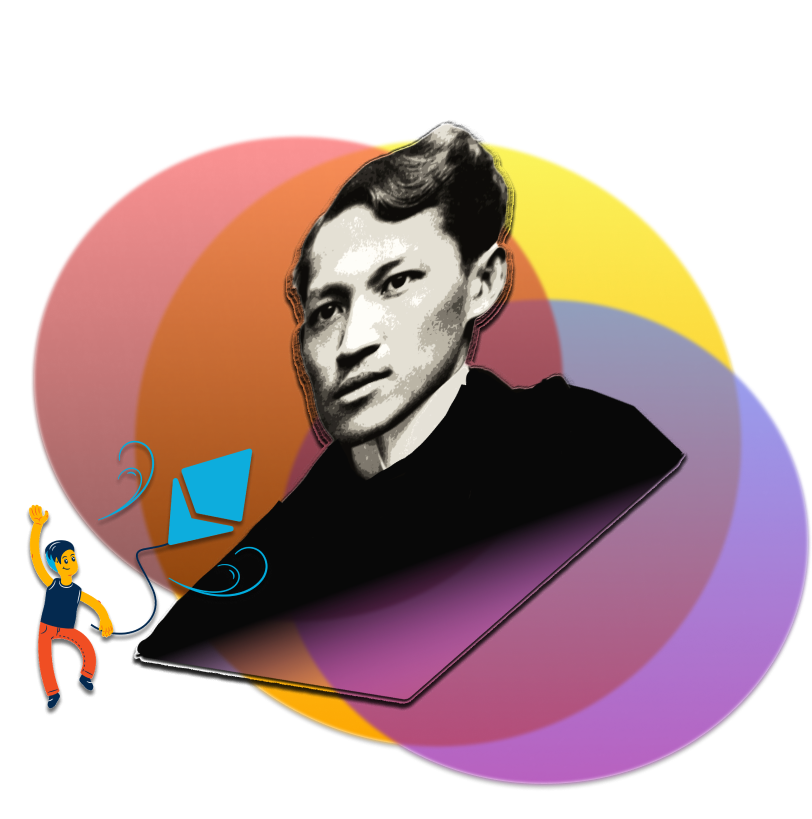
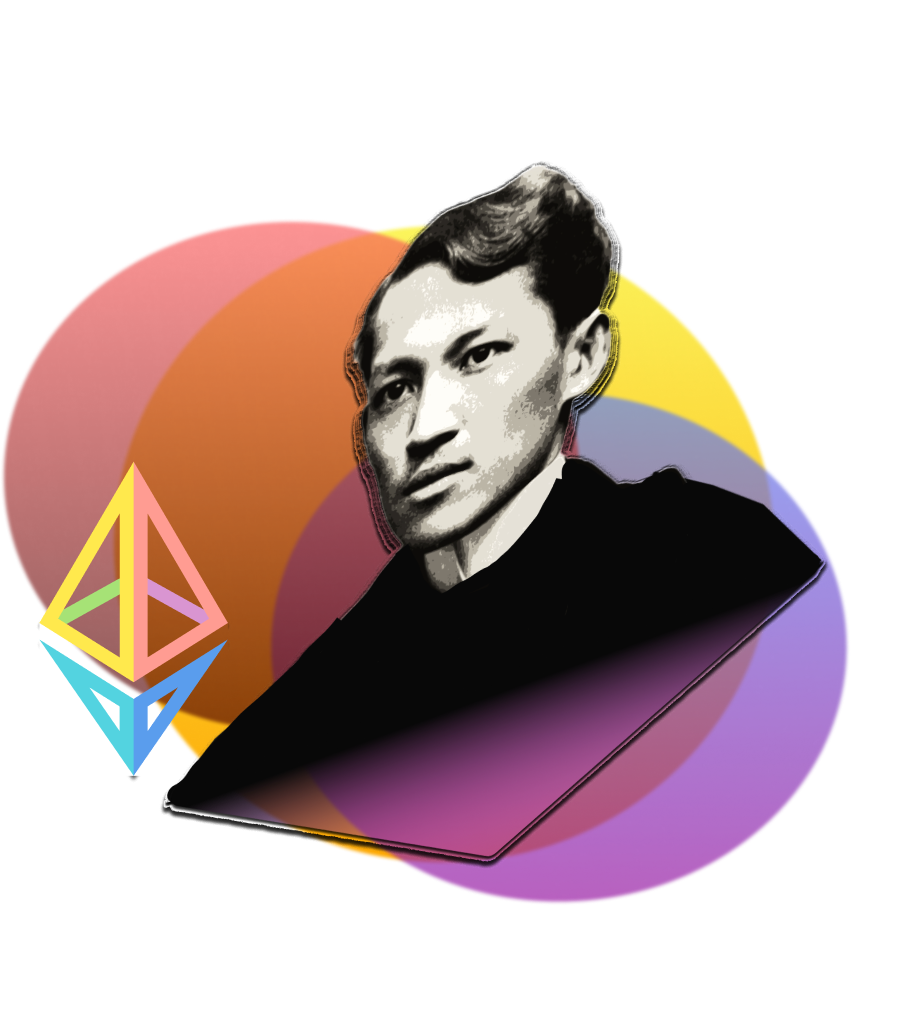
build landing done

diff --git a/rizal/pages/index.js b/rizal/pages/index.js
@@ -1,9 +1,25 @@
 import Head from 'next/head'
-import Nav from '../components/Nav'
-import { Flex, Button, Box, Text, Image, Heading} from '@chakra-ui/react'
+import Card from '../components/Card'
+import { Flex, Button, Box, Text, Divider, Input,Image, Heading, Accordion,
+  AccordionItem,
+  AccordionButton,
+  AccordionPanel,
+  AccordionIcon} from '@chakra-ui/react'
+import Footer from '../components/Footer'
 export default function Home() {
+
+
+  const imageURL=["/","/images","/images/","/images/","/images/","/images"]
+
+
+
+
+
+
+
+
   return (
-    <Flex d="flex"  justify="space-around" align="center" direction="column" w={'full'} h='100vh'> 
+    <Flex d="flex"  justify="space-around" align="center" direction="column" w={'full'} h={'full'} bgGradient='linear(to-b, #000000, #9F3AC3)'> 
         <Head>
           <title>Welcome to NFT Rizal</title>
           <meta name="description" content="Next Generation NFT Collection " />
@@ -11,17 +27,162 @@ export default function Home() {
   
         
         </Head> 
-        <Flex d="flex"  justify="space-around" align="center" direction="row" w={'full'} h='100vh' bgGradient='linear(to-b, #000000, #9F3AC3)'>     
+        <Flex d="flex"  justify="space-around" align="center" direction="row" w={'full'} h="35vh">     
                 <Box mt={-20} justify="center">
-                          <Heading fontSize="6xl" mb={2} bgClip='text'  bgGradient= 'linear(to-r, yellow.900, purple.300)' >NFT Rizal</Heading>
+                          <Heading fontSize="6xl" mb={2} bgClip='text'  bgGradient= 'linear(to-l, yellow.900, purple.300)' >NFT Rizal</Heading>
                           <Text mb={2} w="400px"color="white">Lorem ipsum dolor sit amet, consectetur adipiscing elit. Ultrices velit nisi morbi facilisi duis varius.</Text>
                           <Button colorScheme="purple">Collect Now</Button>
                 </Box>
                 <Box mt={-20} justify="center">
                         <Image src="/images/hero.png" alt="hero-image" boxSize="450px" />
+                        <Box border="2px"  h="100px" w="500px" borderRadius="20px "color="white" align="center" mt={-20} pos="absolute">
+                             <Text fontWeight="bold" color="white">Launch Giveaways!</Text>
+                        </Box>
                 </Box>       
+               
         </Flex>
         
+        <Heading mt={10} color="white">Featured Art Collections</Heading>
+        <Flex d="flex" m={4} justify="space-around" align="center" direction="row">
+          
+          <Card title="NFT Rizal #001" description="Akatsuki" imageUrl="/images/Akatsuki Rizal.png"/>
+          <Card title="NFT Rizal #002" description="LA Rams 22 Champion" imageUrl="/images/LA RAMS RIZAL.png"/>
+          <Card title="NFT Rizal #003" description="New Normal" imageUrl="/images/mask purple.png"/>
+        </Flex>
+
+        <Flex d="flex" maxW="4xl" m={4}  justify="space-between"  direction="row">
+          <Box d="flex" justify="flex-start" mr={20}>
+            <Image src="/images/whyrizal.png" alt="thug rizal"/>
+          </Box>
+          <Flex d="flex" m={4} justify="space-around" align="center" direction="column">
+            <Heading color="white"> Why NFT Rizal?</Heading>
+                <Flex d="flex" direction="row" justify="space-evenly" >
+                  <Box  m={2} border='2px' borderColor='white' boxSize="100px">
+                    <Text fontSize="xl" align="center" justify="center" color="white">500 Unique Art</Text>
+                  </Box >
+                  <Box m={2}border='1px' borderColor='white' boxSize="100px">
+                    <Text  fontSize="xl" align="center" justify="center"color="white">100 Rare</Text>
+                  </Box>
+                  <Box m={2}border='1px' borderColor='white' boxSize="100px">
+                    <Text  fontSize="xl" align="center" justify="center" color="white">100% History</Text>
+                  </Box>
+                  
+               </Flex>
+               <Button>Learn more about Rizal </Button>
+          </Flex>
+        </Flex>
+        
+        <Flex d="flex" maxW="4xl" m={4} p={5} borderRadius="20px" justify="space-between"   
+          bgImage="url('/images/roadmapbg.png')"
+          bgPosition="center"
+           bgRepeat="no-repeat"direction="column">
+            
+            <Heading align="center" justify="center" color="white">NFT Rizal Roadmap</Heading>
+
+            <Box mt={2} d="flex" direction="row" alignItems="center">
+              <Image src="/images/jeep.png"></Image>
+              <Text fontWeight="bold" ml={7} color="white">Project Launch Date: April 2 2022. Will mint and list 500 collection and will have some few community followers giveaways in the first sales of NFT Rizal Art</Text>
+            </Box>
+            <Box mt={2} d="flex" direction="row"  alignItems="center" >
+              <Image src="/images/jeep.png"></Image>
+              <Text fontWeight="bold" ml={7}  color="white">Will launch all novels as NFT to support Foundation and Community affiliated to Jose Rizal</Text>
+            </Box>
+            <Box mt={2} d="flex" direction="row" alignItems="center">
+              <Image src="/images/jeep.png"></Image>
+              <Text fontWeight="bold" ml={7}  color="white"> Support Local Community in the Phillippines. Every Rizal Owner will have exclusive access to our Discord VIP Server.</Text>
+            </Box>
+            <Box mt={2} d="flex" direction="row" alignItems="center">
+              <Image src="/images/jeep.png"></Image>
+              <Text fontWeight="bold"  ml={7} color="white"> collections will be given away and One will have a lucky winner to get a Rare NFT Rizal that will value</Text>
+            </Box>
+        </Flex>
+
+        <Flex d="flex" maxW="4xl" m={4} p={5} borderRadius="20px" justify="space-between" direction="column">
+            <Heading mt={2} color="white">Meet the Founder</Heading>
+            <Image mt={2} src="/images/Rectangle 119.png"></Image>
+            <Text mt={2} fontWeight="bold" align="center" color="white">@IAMACHIPMUNKS</Text>
+            <Text mt={2} fontWeight="bold" align="center" color="white">Developer and Creator of NFT Rizal</Text>
+        </Flex>
+        <Heading mt={2} color="white" justify="center">LOOKING FOR ANSWERS</Heading>
+        <Accordion>
+              <AccordionItem>
+                <h2>
+                  <AccordionButton _expanded={{ bg: 'purple.700', color: 'white' }}>
+                    <Box flex='1' textAlign='left' >
+                         When it will be launch?
+                    </Box>
+                    <AccordionIcon />
+                  </AccordionButton>
+                </h2>
+                <AccordionPanel pb={4}>
+                      April 2 2022 12:00 PST
+                </AccordionPanel>
+              </AccordionItem>
+
+              <AccordionItem>
+                <h2>
+                  <AccordionButton _expanded={{ bg: 'purple.700', color: 'white' }}>
+                    <Box flex='1' textAlign='left'>
+                    What is the mint price??
+                    </Box>
+                    <AccordionIcon />
+                  </AccordionButton >
+                </h2>
+                <AccordionPanel pb={4}>
+                    Floor Price starting at 0.01 ETH
+                </AccordionPanel>
+              </AccordionItem>
+              <AccordionItem>
+                <h2>
+                  <AccordionButton _expanded={{ bg: 'purple.700', color: 'white' }}>
+                    <Box flex='1' textAlign='left'>
+                       How many can I buy?
+                    </Box>
+                    <AccordionIcon />
+                  </AccordionButton>
+                </h2>
+                <AccordionPanel pb={4}>
+                      Available on OpenSea and Rarible you can  buy with your Wallet (Metamask, Coinbase)
+                </AccordionPanel>
+              </AccordionItem>
+              <AccordionItem>
+                <h2>
+                  <AccordionButton _expanded={{ bg: 'purple.700', color: 'white' }}>
+                    <Box flex='1' textAlign='left'>
+                    Are there different types of rarity?
+                    </Box>
+                    <AccordionIcon />
+                  </AccordionButton>
+                </h2>
+                <AccordionPanel pb={4}>
+                    Over 100+ Different Rarity
+                </AccordionPanel>
+              </AccordionItem>
+       
+             <AccordionItem>
+                <h2>
+                  <AccordionButton _expanded={{ bg: 'purple.700', color: 'white' }}>
+                    <Box flex='1' textAlign='left'>
+                    On which blockchain wil the NFTs be?
+                    </Box>
+                    <AccordionIcon />
+                  </AccordionButton>
+                </h2>
+                <AccordionPanel pb={4}>
+                    Polygon Matic
+                </AccordionPanel>
+              </AccordionItem>
+         
+              </Accordion>  
+
+      <Flex d="flex"  m={4} p={5} borderRadius="20px"  direction="column">
+        <Heading color="white">SUBSCRIBE FOR NEWS ABOUT NFT RIZAL</Heading>
+        <Input />
+        <Button mt={2}>Sign Me Up</Button>
+      </Flex>
+
+      <Footer/>
+   
      </Flex>
   )
 }

diff --git a/rizal/components/Card.jsx b/rizal/components/Card.jsx
@@ -1,0 +1,71 @@
+import React from 'react'
+import {Box, Image, Badge, Link, Button, Text, Heading} from '@chakra-ui/react'
+import { AiOutlineHeart } from "react-icons/ai";
+
+
+
+const Card = (props) => {
+
+	
+	return (
+	<Box p={2} m={2} maxW='ld' borderWidth='1px' borderRadius='lg'
+	boxShadow="2px 2px 5px black" overflow='hidden'>
+      <Image src={props.imageUrl} alt={props.imageAlt} h="250px" />
+
+      <Box p='6'>
+        <Box display='flex' alignItems='baseline'>
+          <Badge borderRadius='full' px='2' colorScheme='red'>
+            SALE
+          </Badge>
+        </Box>
+
+        <Box
+          mt='1'
+          fontWeight='bold'
+          as='h2'
+          lineHeight='tight'
+          isTruncated
+          color="white"
+        >
+          {props.title}
+		
+        </Box>
+		  <Box display='flex' mt='2' alignItems='center'  color="gray.400" fontWeight='semibold'>
+			  {props.description}
+    	 </Box>
+        <Box>
+          {/* {props.price} */}
+		  
+          <Box as='span' d="flex" justify='space-between' direction="row" color='purple.200' fontWeight='bold' fontSize='md'>
+		             0.01 ETH <Image src="/images/ethereum.png" alt="ethereum logo"/>
+                <Button color="gray.700"><Link href={props.link}>Buy Now</Link></Button>
+          </Box>
+          
+        </Box>
+
+        {/* <Box display='flex' mt='2' alignItems='center'>
+          {Array(5)
+            .fill('')
+            .map((_, i) => (
+              <AiOutlineHeart
+                key={i}
+                color={i < props.rating ? 'teal.500' : 'gray.300'}
+              />
+            ))}
+        
+        </Box> */}
+		
+		<Box display='flex' mt='2' alignItems='center'>
+		
+		</Box>
+      </Box>
+    </Box>
+	)
+}
+
+export default Card
+
+
+
+
+

diff --git a/rizal/components/Footer.jsx b/rizal/components/Footer.jsx
@@ -1,18 +1,15 @@
 import{ArrowForwardIcon} from '@chakra-ui/icons'
 import { Heading, Text, Box , Link,Flex, Button , Image, useColorModeValue } from '@chakra-ui/react'
-
+import Social from '../components/Social'
 const Footer = () => {
 
 	
 	return (
 		<div>
-			<Flex  display="flex" justify="space-evenly" align="center"w='100%' h='400px' bgColor="pink.900">
-				<Box>
-					<Heading textShadow="2px 2px #000000" color="white">#opentowork</Heading>
-					<Text mt={2} color="white">Would love to get meetups or interview with your company</Text>
-					<Button m={2} rightIcon={<ArrowForwardIcon />} colorScheme='orange.700' variant='outline'><Link href="https://alvinrumbaoa.simplybook.me/v2/#show-on-map/yes">Let's do this</Link></Button>
-			
-					<Text>© 2020 theRumbaoas. All rights reserved</Text>
+			<Flex  display="flex" justify="space-evenly" align="center" w='100%'>
+				<Box align="center">
+					<Social/>
+					<Text p={5} color="white">©2022 theRumbaoas. All rights reserved</Text>
 				</Box>
 			</Flex>
 		</div>

diff --git a/rizal/components/Social.jsx b/rizal/components/Social.jsx
@@ -1,0 +1,27 @@
+import {Box, HStack, Image,  Link } from '@chakra-ui/react'
+
+const Social = () => {
+
+	
+	return (
+	<HStack align="center" spacing='30px' h="100px" justifyContent='center' >
+		<Link href="https://www.instagram.com/iamachipmunks/">
+		  <Image src="/images/Vector.png" alt="opensea" boxSize="50px" objectFit="cover"/>
+		</Link> 
+		<Link href="https://github.com/xenodochy23">
+		  <Image src="/images/Discord.png" alt="discord" boxSize="50px" objectFit="cover"/>
+		</Link>
+		<Link href="https://www.linkedin.com/in/alvinrumbaoa/">
+		  <Image src="/images/Instagram.png" alt="instagram" boxSize="50px" objectFit="cover"/>
+		</Link>
+		<Link href="https://dribbble.com/alvinrumbaoa">
+		  <Image src="/images/twitter.png" alt="twitter" boxSize="40px" objectFit="cover"/>
+		</Link>
+		<Link href="https://dribbble.com/alvinrumbaoa">
+		  <Image src="/images/rarible.png" alt="rarible" boxSize="40px" objectFit="cover"/>
+		</Link>
+	</HStack>
+	)
+}
+
+export default Social
